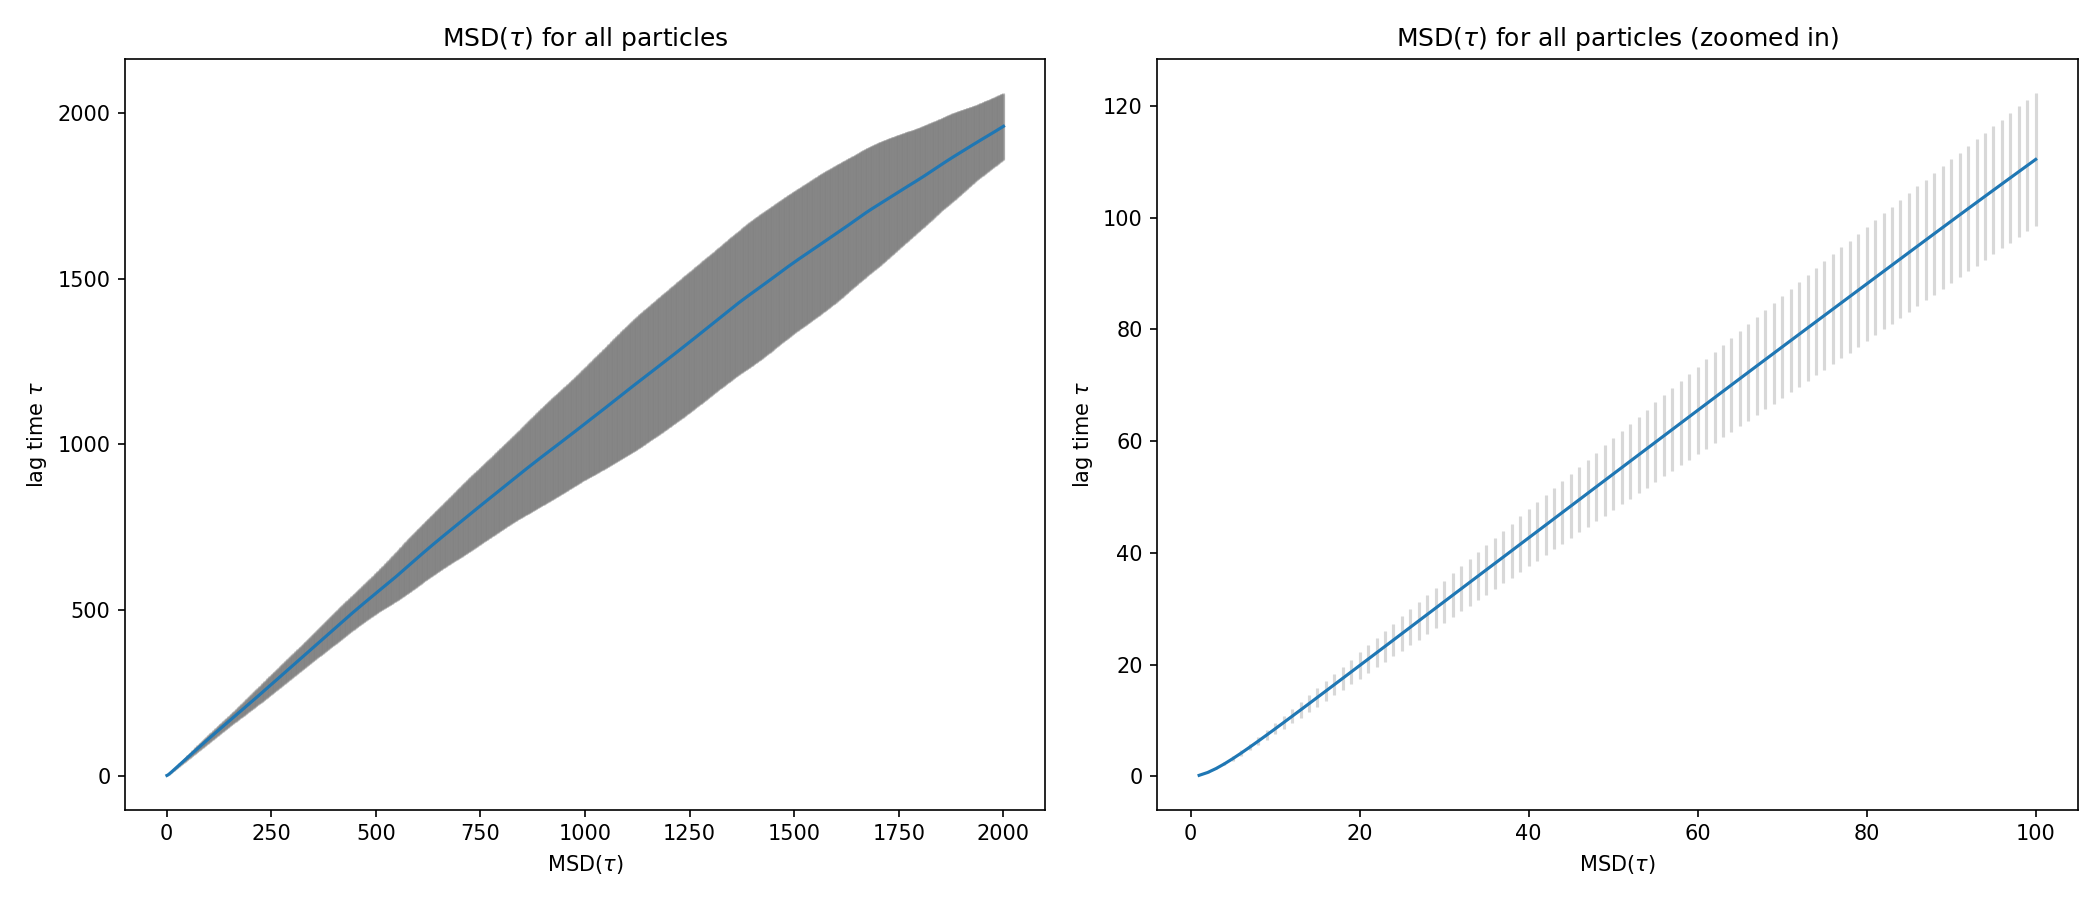
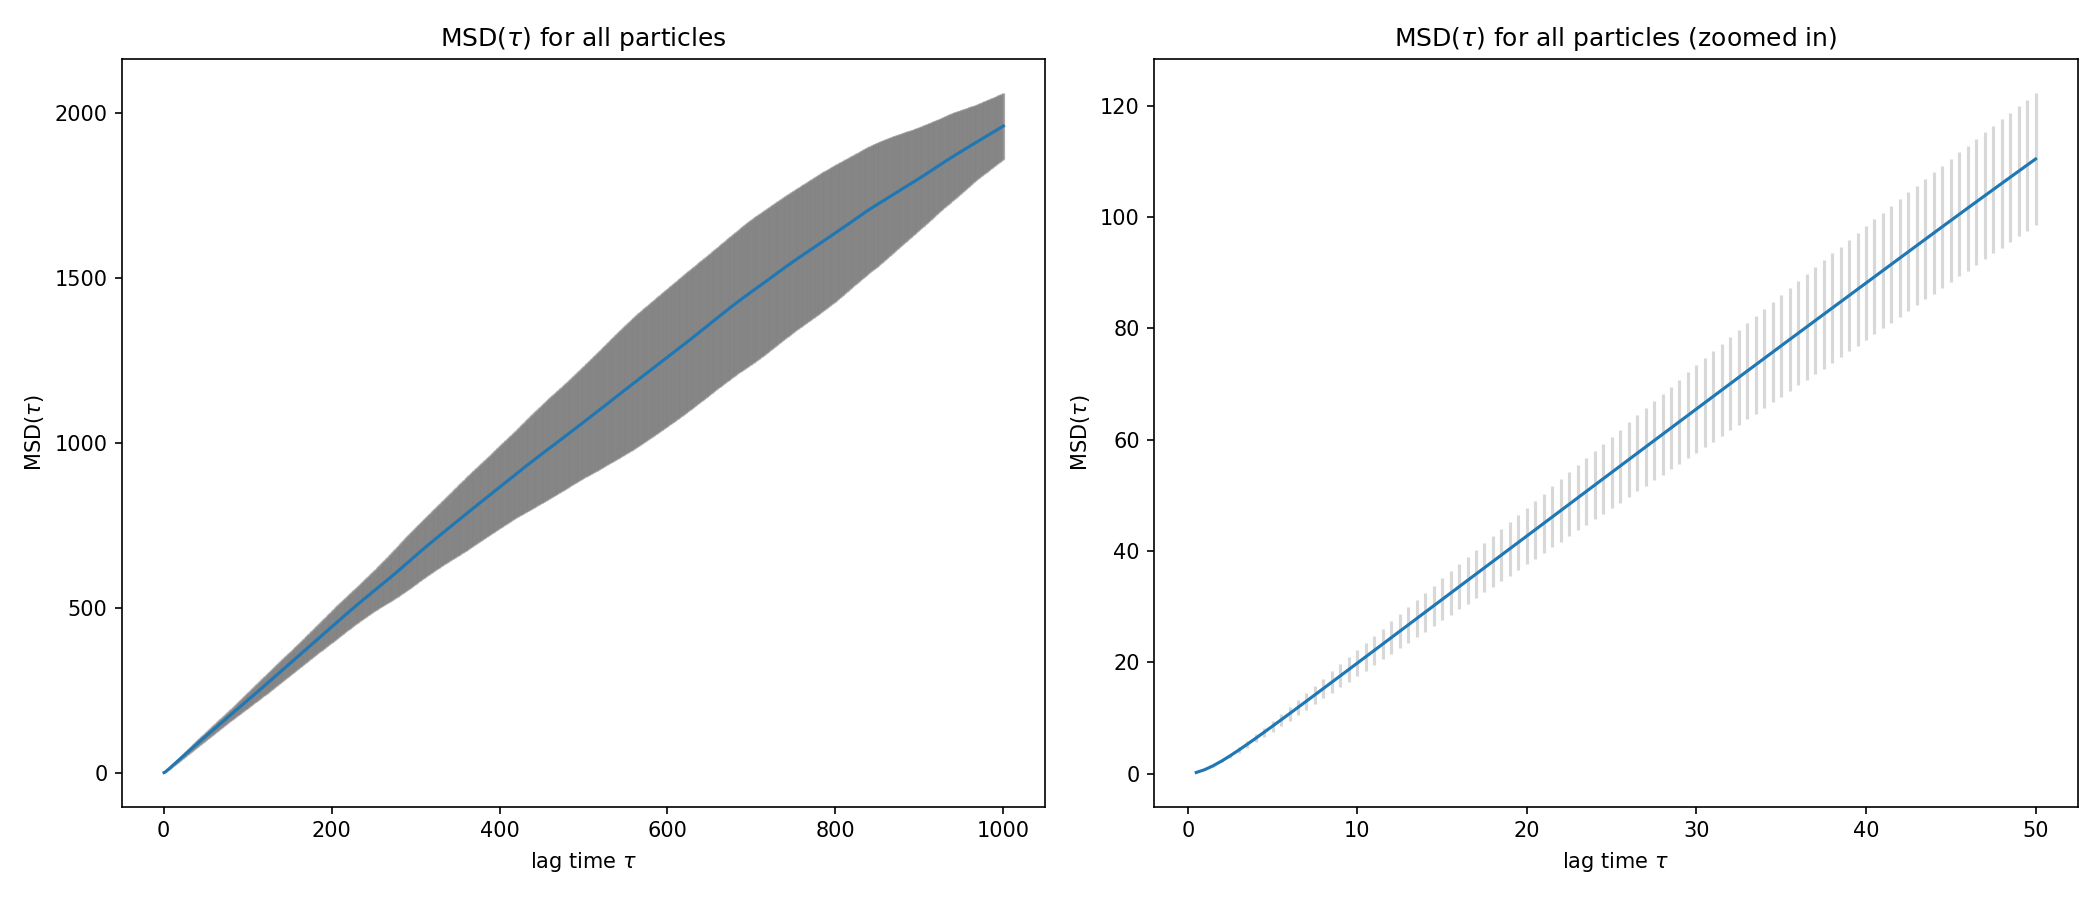
Calculation of Diffusion coefficients for both cases with plots.

diff --git a/sm1_worksheet_4/solutions/ex_5.py b/sm1_worksheet_4/solutions/ex_5.py
@@ -15,6 +15,12 @@ import numpy as np
 import matplotlib.pyplot as plt
 from tqdm import tqdm
 import os
+import logging
+
+from scipy.integrate import simpson
+from scipy.optimize import curve_fit
+
+logging.basicConfig(level=logging.INFO)
 
 # all written for only one atom, add atom_indx as argument
 def compute_autocorrelation(vels: np.ndarray, lag_time: int, atom_indx: int):
@@ -71,6 +77,9 @@ def compute_einstein_diffusion(traj: np.ndarray, atom_indx: int):
 
     return np.array(einstein_relation_list), lag_time_list, np.array(einstein_relation_errorbars)
 
+def linear_fit_function(x, m, c):
+    return m*x + c
+
 if __name__ == '__main__':
     # loading data
     parser = argparse.ArgumentParser()
@@ -81,11 +90,8 @@ if __name__ == '__main__':
         data = pickle.load(datafile)
         
         N, T, GAMMA_LANGEVIN, x, v, ts, Es, Tms, vels, traj = data
-    
-    # compute MSD
-    plt.plot(traj[:, 0, 0])
-    plt.show()
 
+    # compute MSD
     if os.path.isfile('./sm1_worksheet_4/plots/msd_all_particles.npy'):
         msd_list = np.load('./sm1_worksheet_4/plots/msd_all_particles.npy')
         _, lag_time_list, single_atom_errorbars = compute_einstein_diffusion(traj, 0)
@@ -97,16 +103,18 @@ if __name__ == '__main__':
         msd_list = np.array(msd_list)
         np.save('./sm1_worksheet_4/plots/msd_all_particles.npy', msd_list)
 
+    ts = np.array(ts)[:len(lag_time_list)]
+
     # compute plot for one atom
     fig, axs = plt.subplots(1, 2, figsize=(14.0, 6.0))
-    axs[0].errorbar(lag_time_list, msd_list[0, :], yerr=single_atom_errorbars, ecolor=(0.5, 0.5, 0.5, 0.3))
-    axs[0].set_ylabel(r'lag time $\tau$')
-    axs[0].set_xlabel(r'MSD($\tau$)')
+    axs[0].errorbar(ts, msd_list[0, :], yerr=single_atom_errorbars, ecolor=(0.5, 0.5, 0.5, 0.3))
+    axs[0].set_xlabel(r'lag time $\tau$')
+    axs[0].set_ylabel(r'MSD($\tau$)')
     axs[0].set_title(r'MSD($\tau$) for the first particle')
 
-    axs[1].errorbar(lag_time_list[:100], msd_list[0, :100], yerr=single_atom_errorbars[:100], ecolor=(0.5, 0.5, 0.5, 0.3))
-    axs[1].set_ylabel(r'lag time $\tau$')
-    axs[1].set_xlabel(r'$MSD(\tau)$')
+    axs[1].errorbar(ts[:100], msd_list[0, :100], yerr=single_atom_errorbars[:100], ecolor=(0.5, 0.5, 0.5, 0.3))
+    axs[1].set_xlabel(r'lag time $\tau$')
+    axs[1].set_ylabel(r'$MSD(\tau)$')
     axs[1].set_title(r'MSD($\tau$) for the first particle (zoomed in)')
 
     fig.tight_layout()
@@ -118,24 +126,46 @@ if __name__ == '__main__':
     averaged_erros = single_atom_errorbars / np.sqrt(msd_list.shape[0])
 
     fig, axs = plt.subplots(1, 2, figsize=(14.0, 6.0))
-    axs[0].errorbar(lag_time_list, msd_all_atoms, yerr=averaged_erros, ecolor=(0.5, 0.5, 0.5, 0.3))
-    axs[0].set_ylabel(r'lag time $\tau$')
-    axs[0].set_xlabel(r'MSD($\tau$)')
+    axs[0].errorbar(ts, msd_all_atoms, yerr=averaged_erros, ecolor=(0.5, 0.5, 0.5, 0.3))
+    axs[0].set_xlabel(r'lag time $\tau$')
+    axs[0].set_ylabel(r'MSD($\tau$)')
     axs[0].set_title(r'MSD($\tau$) for all particles')
 
-    axs[1].errorbar(lag_time_list[:100], msd_all_atoms[:100], yerr=averaged_erros[:100], ecolor=(0.5, 0.5, 0.5, 0.3))
-    axs[1].set_ylabel(r'lag time $\tau$')
-    axs[1].set_xlabel(r'MSD($\tau$)')
+    axs[1].errorbar(ts[:100], msd_all_atoms[:100], yerr=averaged_erros[:100], ecolor=(0.5, 0.5, 0.5, 0.3))
+    axs[1].set_xlabel(r'lag time $\tau$')
+    axs[1].set_ylabel(r'MSD($\tau$)')
     axs[1].set_title(r'MSD($\tau$) for all particles (zoomed in)')
 
     fig.tight_layout()
     plt.savefig('./sm1_worksheet_4/plots/MSD_all_particles.png', format='png', dpi=150)
     plt.show()
 
-    # compute VACF
-    plt.plot(vels[:, 0, 0])
+    # compute diffusion coefficient from MSD
+    popt, pcov = curve_fit(linear_fit_function, ts[10:500], msd_all_atoms[10:500]) # fit only calculated in zoomed in linear regime for all atoms
+    msd_diffusion_coefficient = popt[0] / (2*3)
+    logging.info(
+        f"Diffusion coefficient resulting form linear MSD fit: {msd_diffusion_coefficient}"
+    )
+
+    fig, axs = plt.subplots(1, 2, figsize=(14.0, 6.0))
+    axs[0].errorbar(ts, msd_all_atoms, yerr=averaged_erros, ecolor=(0.5, 0.5, 0.5, 0.3))
+    axs[0].set_xlabel(r'lag time $\tau$')
+    axs[0].set_ylabel(r'MSD($\tau$)')
+    axs[0].set_title(r'MSD($\tau$) for all particles')
+    axs[0].plot(ts[10:], linear_fit_function(ts[10:], *popt), color='red', lw=3)
+
+    axs[1].errorbar(ts[:500], msd_all_atoms[:500], yerr=averaged_erros[:500], ecolor=(0.5, 0.5, 0.5, 0.3), label=r'MSD($\tau$)')
+    axs[1].set_xlabel(r'lag time $\tau$')
+    axs[1].set_ylabel(r'MSD($\tau$)')
+    axs[1].set_title(r'MSD($\tau$) for all particles (zoomed in)')
+    axs[1].plot(ts[10:500], linear_fit_function(ts[10:500], *popt), color='red', label=f'Linear Fit, m={np.round(popt[0], 3)}', lw=3)
+    axs[1].legend()
+
+    fig.tight_layout()
+    plt.savefig('./sm1_worksheet_4/plots/MSD_all_particles_fitted.png', format='png', dpi=150)
     plt.show()
 
+    # compute VACF
     if os.path.isfile('./sm1_worksheet_4/plots/vacf_all_particles.npy'):
         vacf_list = np.load('./sm1_worksheet_4/plots/vacf_all_particles.npy')
         _, lag_time_list = compute_VACF(vels, 0)
@@ -149,19 +179,32 @@ if __name__ == '__main__':
 
     # compute plot for all atoms
     vacf_all_atoms = np.mean(vacf_list, axis=0)
-    averaged_erros = single_atom_errorbars / np.sqrt(vacf_list.shape[1])
+
+    computed_temp = vacf_all_atoms[0] / 3
+    simulation_temp = 0.3
+    vacf_all_atoms *= simulation_temp/computed_temp
 
     fig, axs = plt.subplots(1, 2, figsize=(14.0, 6.0))
-    axs[0].plot(lag_time_list, vacf_all_atoms)
-    axs[0].set_ylabel(r'lag time $\tau$')
-    axs[0].set_xlabel(r'VACF($\tau$)')
+    axs[0].plot(ts, vacf_all_atoms)
+    axs[0].set_xlabel(r'lag time $\tau$')
+    axs[0].set_ylabel(r'VACF($\tau$)')
     axs[0].set_title(r'VACF($\tau$) for all particles')
 
-    axs[1].errorbar(lag_time_list[:100], vacf_all_atoms[:100])
-    axs[1].set_ylabel(r'lag time $\tau$')
-    axs[1].set_xlabel(r'VACF($\tau$)')
+    axs[1].errorbar(ts[:500], vacf_all_atoms[:500])
+    axs[1].set_xlabel(r'lag time $\tau$')
+    axs[1].set_ylabel(r'VACF($\tau$)')
     axs[1].set_title(r'VACF($\tau$) for all particles (zoomed in)')
 
     fig.tight_layout()
     plt.savefig('./sm1_worksheet_4/plots/VACF_all_particles.png', format='png', dpi=150)
     plt.show()
+
+    # compute diffusion coefficient from VACF:
+    vacf_diffusion_coefficient = simpson(vacf_all_atoms, ts)
+    vacf_diffusion_coefficient_2 = simpson(vacf_all_atoms[:500], ts[:500])
+    logging.info(
+        f"Diffusion cofficient resulting from VACF: {vacf_diffusion_coefficient}"
+    )
+    logging.info(
+        f"Second Diffusion cofficient resulting from VACF: {vacf_diffusion_coefficient_2}"
+    )
